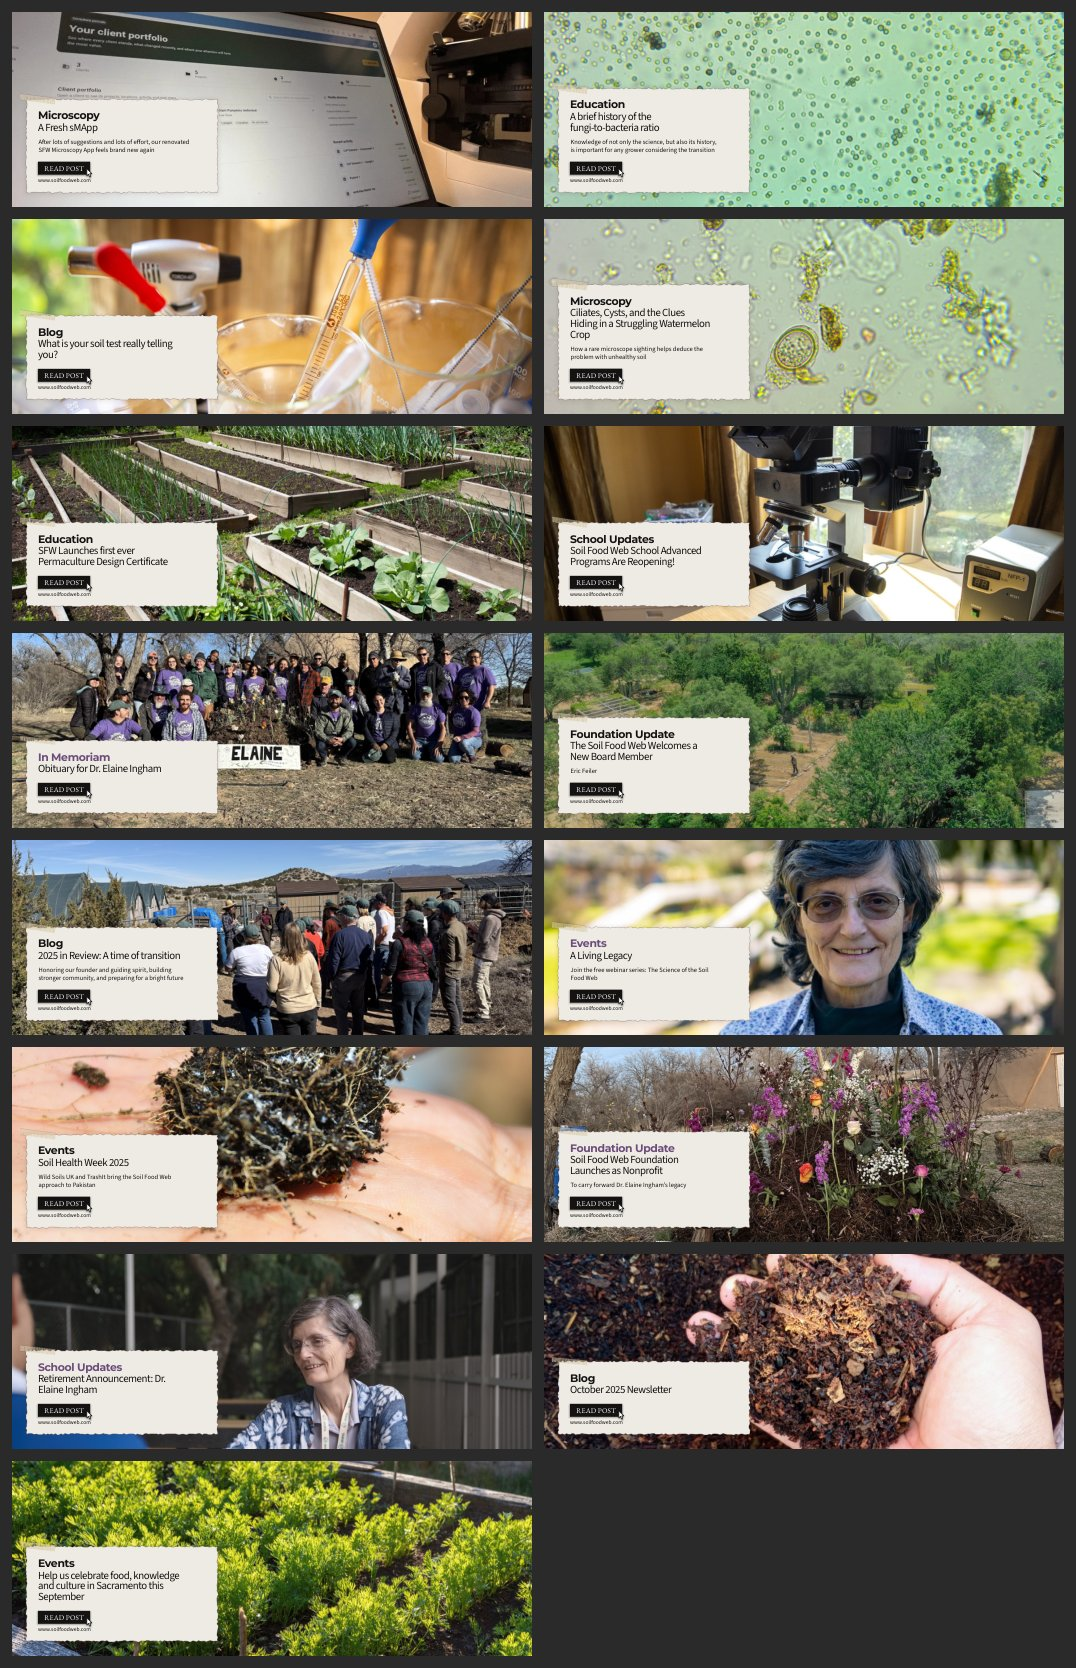
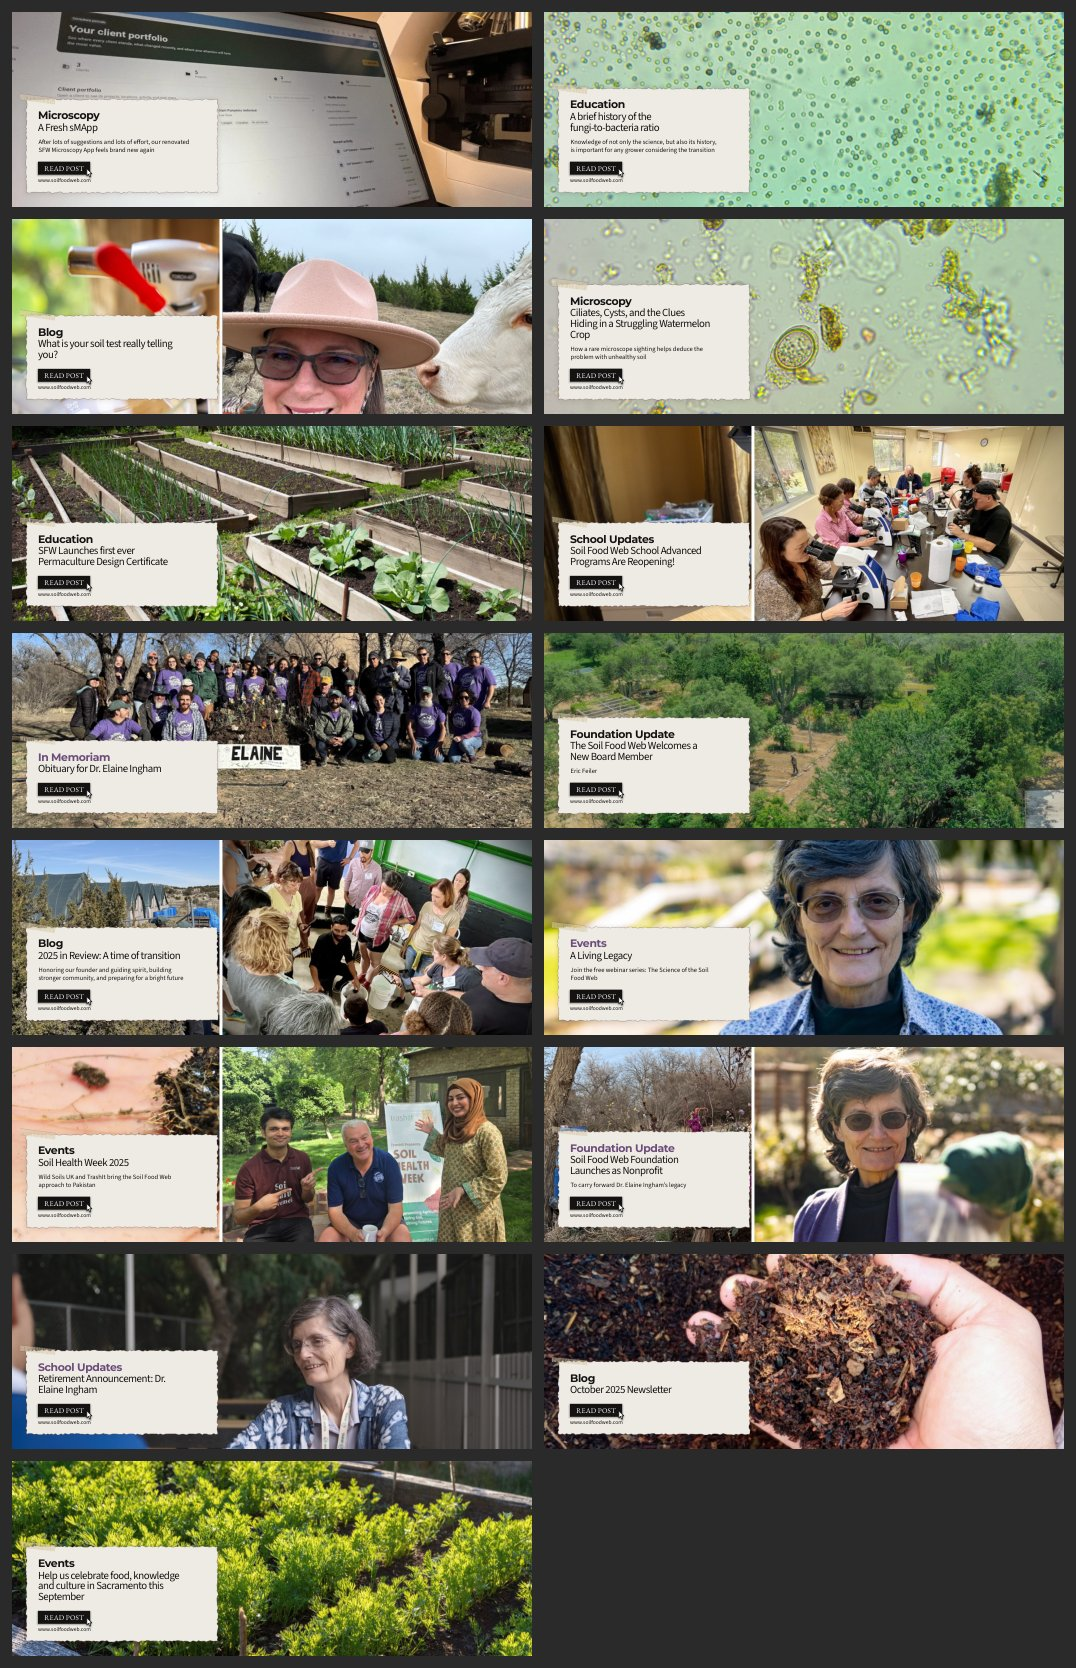
Blog cards: one layout per size; the post's own photo always stays, a Drive photo is added beside it where needed
Claude-Session: https://claude.ai/code/session_01LLv6pkd6pVHpjELa35dCxs

diff --git a/tools/blog-cards/build.py b/tools/blog-cards/build.py
@@ -478,26 +478,31 @@ def brand_slide(slide, post, key, W, H):
     def ok(cx_, cy_, ph_):
         if not HEADS.get(slug): return True
         return people_crop(src, pw, ph_, slug, focus, rel(cx_, cy_, px_, py_, pw, ph_), score_only=True)
-    if not ok(cx, cy, ph) or (post.get('wide_only_photo') and W / H > 1.2):
-        if stacked and W / H > 1.2 and cw >= W * .8:
-            # full-width card: try the photo behind a narrower card, bottom left, then bottom right
-            cw = int(W * .52); tw = cw - 2 * pad
-            hl = wrap(post['head'], font(F_HEAD, BIG), tw * .95)
-            dl = wrap(post['deck'], font(F_HEAD, SMALL), tw * .9) if post['deck'] else []
-            body = BIG * 1.08 + BIG * len(hl) + (SMALL * .6 + SMALL * 1.25 * len(dl) if dl else 0)
-            ch = int(pad + body + SMALL * 1.3 + btn_h + SMALL * 1.3 + pad * .8)
-            cy = H - ch - cx; ph = H
-        if not ok(cx, cy, ph) and ok(W - cw - cx, cy, ph):
-            cx = W - cw - cx                               # the card moves to the right, clear of the faces
-        elif not ok(cx, cy, ph) or (post.get('wide_only_photo') and W / H > 1.2):
-            # the post's own photograph cannot hold its faces at this shape:
-            # use the post's second photograph from the Foundation's Drive instead
-            alt = WIDE.get(slug)
-            if alt:
-                src = ImageOps.exif_transpose(Image.open(os.path.join(REPO, alt[0]))).convert('RGB')
-                slug = '__alt__'; focus = alt[1]
     k = max(1, min(2, min(src.width / pw, src.height / ph)))
-    img = people_crop(src, int(pw * k), int(ph * k), slug, focus, rel(cx, cy, px_, py_, pw, ph))
+    if ok(cx, cy, ph) or not WIDE.get(slug):
+        img = people_crop(src, int(pw * k), int(ph * k), slug, focus, rel(cx, cy, px_, py_, pw, ph))
+    else:
+        # The post's own photograph always stays. Where it cannot fill the
+        # frame with its faces whole and clear of the card, it sits as a panel
+        # in the free part of the frame, and a second photograph that belongs
+        # to the post (from the Foundation's Drive) fills the rest.
+        alt, afocus = WIDE[slug]
+        A = ImageOps.exif_transpose(Image.open(os.path.join(REPO, alt))).convert('RGB')
+        Wk, Hk = int(pw * k), int(ph * k)
+        img = ImageOps.fit(A, (Wk, Hk), Image.LANCZOS, centering=afocus)
+        r = rel(cx, cy, px_, py_, pw, ph); gap = max(6, int(Wk * .006))
+        if r[2] - r[0] > .8:                      # full-width card: the panel goes in the band above it
+            bh = max(int(Hk * r[1]), int(Hk * .3))
+            bw = min(Wk, int(bh * src.width / src.height * 1.1))
+            bx = Wk - bw
+            panel = cover(src, bw, bh, focus, slug=slug)
+            ImageDraw.Draw(img).rectangle((bx - gap, 0, Wk, bh + gap), fill=(255, 255, 255))
+            img.paste(panel, (bx, 0))
+        else:                                     # card at the side: the panel takes the rest of the width
+            bx = int(Wk * r[2]) + gap
+            panel = cover(src, Wk - bx, Hk, focus, slug=slug)
+            ImageDraw.Draw(img).rectangle((bx - gap, 0, bx, Hk), fill=(255, 255, 255))
+            img.paste(panel, (bx, 0))
     path = os.path.join(TMP, f'{key}--{post["slug"]}--brand.jpg'); img.save(path, quality=93, subsampling=0)
     slide.shapes.add_picture(path, Emu(int(px_ * PX)), Emu(int(py_ * PX)), Emu(int(pw * PX)), Emu(int(ph * PX))).name = 'Photo'
     card_png = torn_paper(key, post['slug'], cw, ch)
